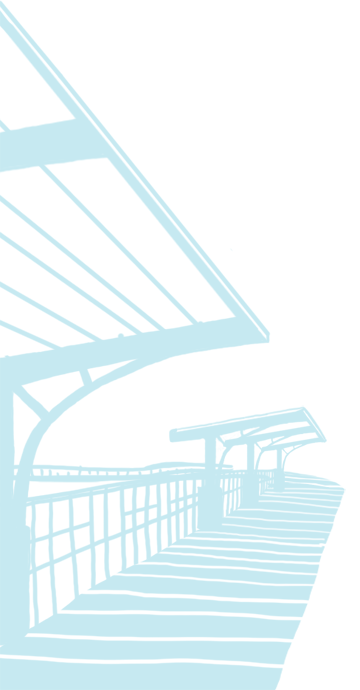
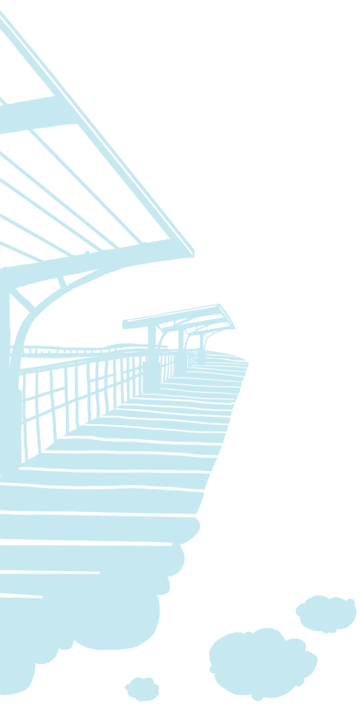
make the transition to 'shows' a little less jarring

diff --git a/wluw/media/css/base.css b/wluw/media/css/base.css
@@ -92,8 +92,8 @@ h2                              { color:#C03939; font-size:1.1em; margin-bottom:
 h2 a                            { padding:0px 8px; }
 
 .scene.events                   { background:#2a3133; position:relative; padding-bottom:32px; padding-top:32px; }
-.scene.events .scene-right      { width:400px; height:467px; background:url('../img/train.png') no-repeat; position:absolute; bottom:0px; right:0px; z-index:1; }
-.scene.events .scene-left       { width:360px; height:690px; background:url('../img/subwaystop.png') no-repeat; position:absolute; bottom:0px; left:0px; z-index:1; }
+.scene.events .scene-right      { width:400px; height:467px; background:url('../img/train.png') no-repeat; position:absolute; bottom:-100px; right:0px; z-index:1; }
+.scene.events .scene-left       { width:360px; height:721px; background:url('../img/subwaystop.png') no-repeat; position:absolute; bottom:-200px; left:0px; z-index:1; }
 
 .scene.shows .scene-left       { width:544px; height:519px; background:url('../img/scene-2-left.png') no-repeat; position:absolute; bottom:0px; left:0px; z-index:1; }
 .scene.shows .scene-right      { width:498px; height:248px; background:url('../img/scene-2-right.png') no-repeat; position:absolute; bottom:-120px; right:0px; z-index:1; }
@@ -132,7 +132,7 @@ h2 a                            { padding:0px 8px; }
 .scene.events .calendar > h2                  { margin:6px; padding-bottom:6px; color:white; font-size:0.8em; }
 .scene.events .calendar > div                 { background:#c6e9f1; width:274px; margin:3px auto; border-radius:6px;}
 #events-holder                         { overflow:hidden; }
-#events-top                                     { background:url('../img/events_top.png'); height:278px; margin-top:-278px; }
+#events-top                                     { background:url('../img/events_top.png'); height:87px; margin-top:-87px; }
 
 .scene.events h2                { color:white; font-size:1.5em; }
 
